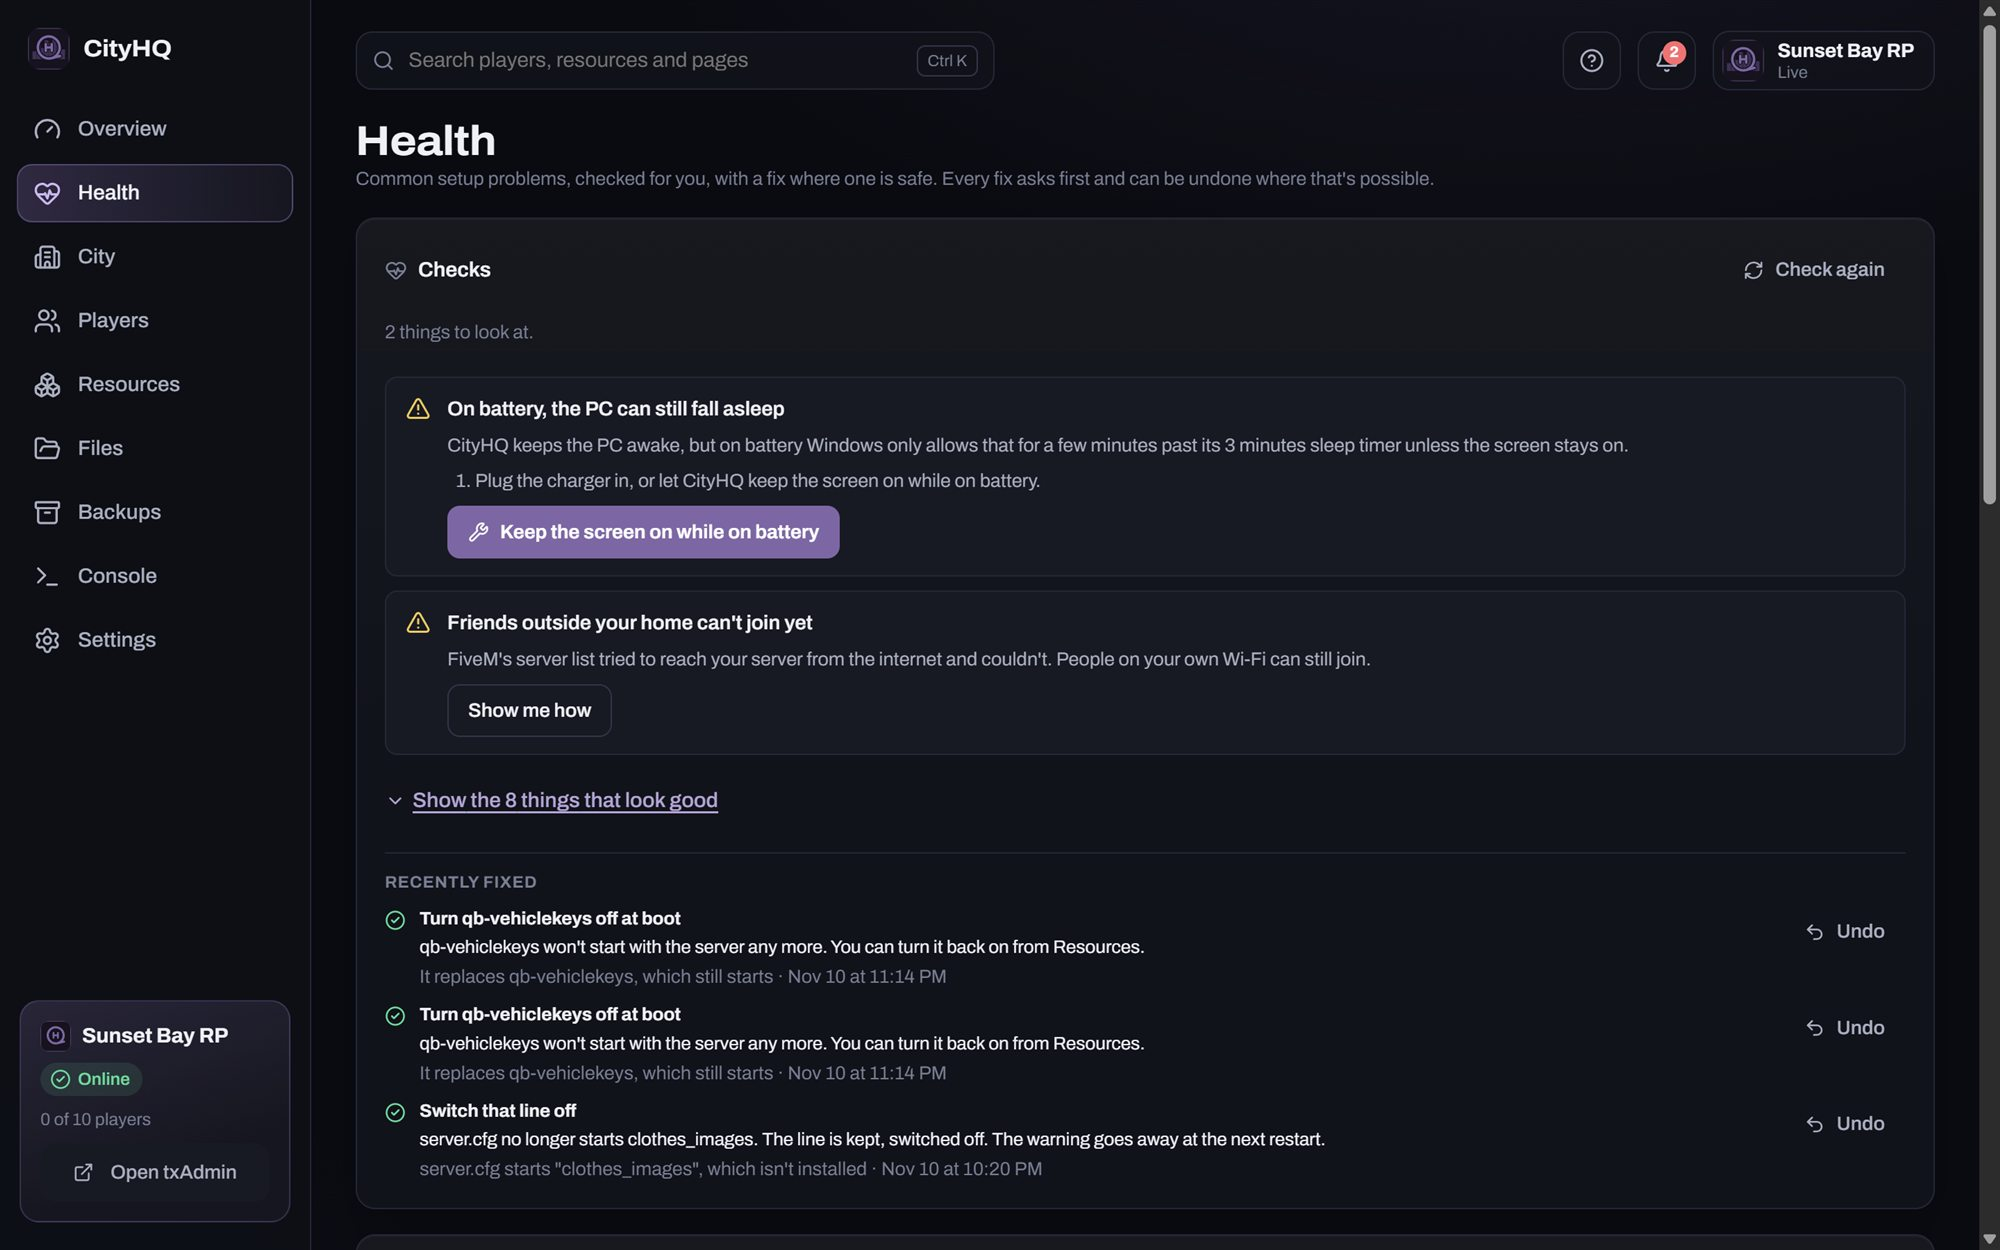
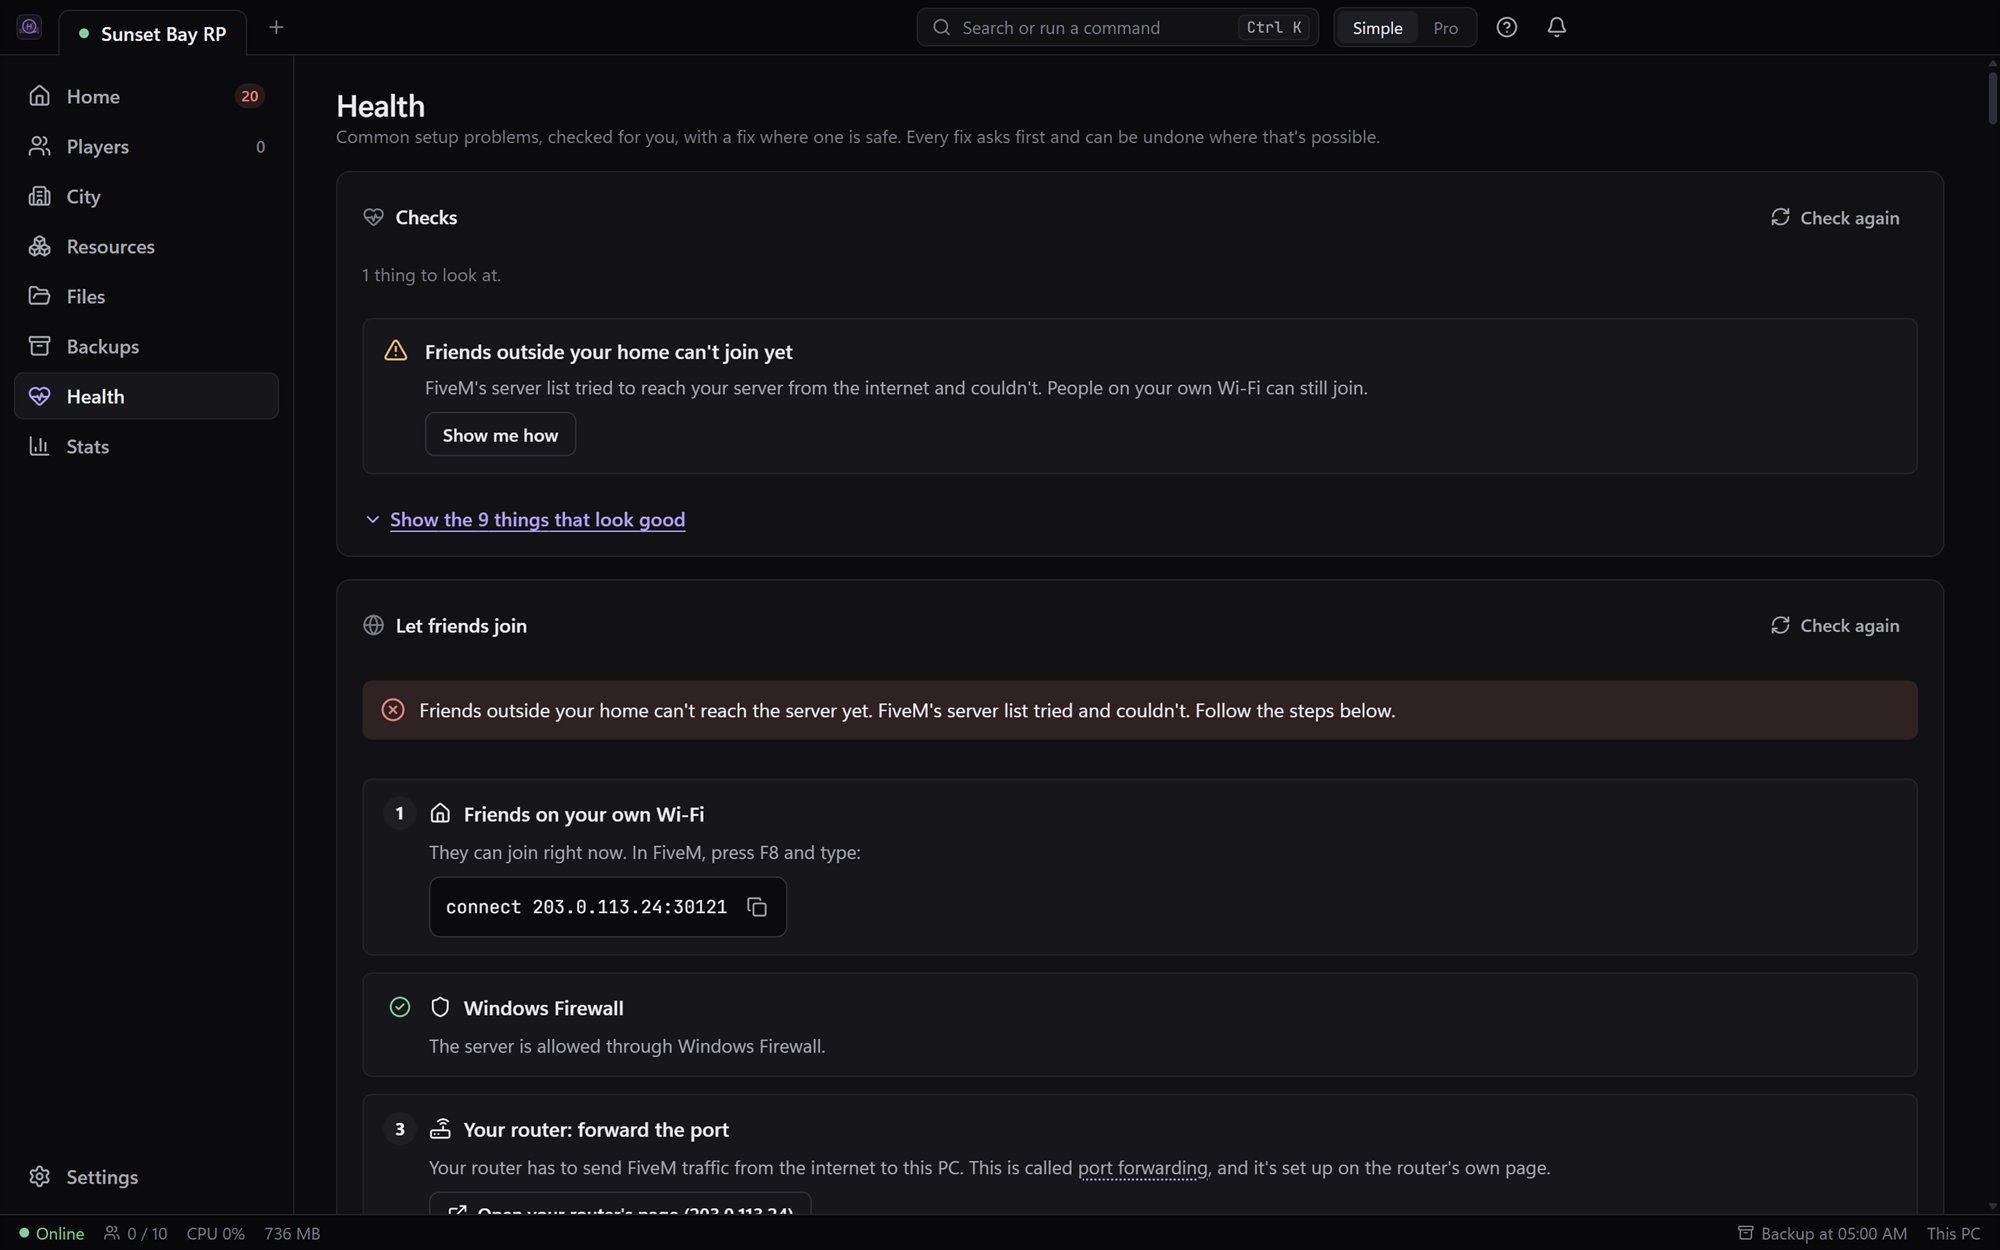
Website in the new look; Home's Things to fix lists them all (1.8.1)
- Website: new screenshots of 1.8 (Home, a form, one problem explained,
  Health, the install check, a phone), taken in a look-only test copy
  with the server's name, greeting name, IP addresses and license ids
  swapped for made-up ones. A new step, "Does what you ask", and the
  opening and descriptions mention typing what you want. Pins are
  placed beside what they point at.
- Home: "See all" under Things to fix opens the full list (with fixes
  and recent fixes) in place. It used to point at the Health page,
  which has its own checks, and miscounted on phones. Their count in
  the menu moves from Health to Home.

175 tests pass; type check and build pass.

diff --git a/site/index.html b/site/index.html
@@ -4,11 +4,11 @@
 <meta charset="utf-8">
 <meta name="viewport" content="width=device-width, initial-scale=1">
 <title>CityHQ: a Windows app for running a QBCore or Qbox server</title>
-<meta name="description" content="CityHQ is a free Windows app that runs a QBCore or Qbox FiveM server: it starts txAdmin, explains errors in plain words, fixes what it safely can, backs everything up, and can undo every change it makes.">
+<meta name="description" content="CityHQ is a free Windows app that runs a QBCore or Qbox FiveM server: type what you want in plain words, see what broke and how to fix it, and back everything up. Every change it makes can be undone.">
 <meta property="og:title" content="CityHQ: a Windows app for running a QBCore or Qbox server">
-<meta property="og:description" content="Free. Explains what broke and how to fix it, checks the setup, backs up every night, and undoes every change it makes.">
+<meta property="og:description" content="Free. Type what you want in plain words, see what broke and how to fix it, back up every night, and undo every change it makes.">
 <meta property="og:type" content="website">
-<meta property="og:image" content="img/overview.jpg">
+<meta property="og:image" content="img/home.jpg">
 <meta name="theme-color" content="#f4f0e6">
 <link rel="icon" href="img/logo.svg" type="image/svg+xml">
 <style>
@@ -153,7 +153,7 @@ footer p { margin: 0; max-width: 38em; }
 <main id="main">
   <div class="opening col">
     <h1>CityHQ runs your QBCore or Qbox server, and tells you what's wrong with it in plain words.</h1>
-    <p>It's a free Windows app. It starts txAdmin, watches the console, fixes what it safely can and backs everything up. <mark>Every change it makes can be undone.</mark></p>
+    <p>It's a free Windows app. Type what you want in plain words, like "kick a player" or "make it rain", or click a suggestion. It watches the console, fixes what it safely can and backs everything up. <mark>Every change it makes can be undone.</mark></p>
     <div class="get">
       <a class="button" href="https://github.com/404hxlo/CityHQ/releases/latest/download/CityHQ-windows.zip">
         <svg viewBox="0 0 24 24" fill="none" stroke="currentColor" stroke-width="2.2" stroke-linecap="round" stroke-linejoin="round" aria-hidden="true"><path d="M12 3v12"/><path d="m7 10 5 5 5-5"/><path d="M5 21h14"/></svg>
@@ -165,19 +165,19 @@ footer p { margin: 0; max-width: 38em; }
 
   <div class="figure wide">
     <div class="photo">
-      <img src="img/overview.jpg" width="2000" height="1250" alt="CityHQ's Overview page for a made-up server called Sunset Bay RP: online, with Restart, Stop and Announce buttons, cards for players and scripts, a player activity chart and a calendar.">
-      <span class="pin" style="left: 18.6%; top: 29%"><span>1</span></span>
-      <span class="pin" style="left: 66%; top: 48.8%"><span>2</span></span>
-      <span class="pin" style="left: 43%; top: 70%"><span>3</span></span>
-      <span class="pin" style="left: 78.5%; top: 15.5%"><span>4</span></span>
+      <img src="img/home.jpg" width="2000" height="1250" alt="CityHQ's Home for a made-up server called Sunset Bay RP: a welcome with setup checks, the server online with its join command, six things to do as cards, the live log, a box to type what you want, and a panel with players, load and things to fix.">
+      <span class="pin" style="left: 58%; top: 88.6%"><span>1</span></span>
+      <span class="pin" style="left: 29.6%; top: 55.8%"><span>2</span></span>
+      <span class="pin" style="left: 86.8%; top: 38.2%"><span>3</span></span>
+      <span class="pin" style="left: 70.3%; top: 8.4%"><span>4</span></span>
     </div>
     <ol class="notes">
-      <li><b>1</b><span>Restart warns everyone in game first, and saves them.</span></li>
-      <li><b>2</b><span>Things CityHQ noticed. Each one says what it is and what to do.</span></li>
-      <li><b>3</b><span>Who was on, over the last day or week.</span></li>
-      <li><b>4</b><span>What your friends type in FiveM to join.</span></li>
+      <li><b>1</b><span>Type what you want, in your own words.</span></li>
+      <li><b>2</b><span>New to this? Start with a click.</span></li>
+      <li><b>3</b><span>Anything wrong, in plain words, with how to fix it.</span></li>
+      <li><b>4</b><span>Simple or Pro: as much detail as you like.</span></li>
     </ol>
-    <p class="caption"><strong>Fig. 1</strong> The Overview. The city and names are made up.</p>
+    <p class="caption"><strong>Fig. 1</strong> Home, the way it looks the first time. The city and names are made up.</p>
   </div>
 
   <hr class="rule">
@@ -192,31 +192,59 @@ footer p { margin: 0; max-width: 38em; }
           <p>Point it at the server you already have, and it reads txAdmin's settings, the ports and the database, including XAMPP's MySQL. No server yet? It downloads FiveM's server and a database into one folder and walks you through txAdmin.</p>
         </li>
         <li>
-          <h3>Tells you what broke</h3>
-          <p>Errors in the console become a short list, most serious first: which script, what happened, and the steps to fix it. A button opens that script's files, and there's a link to its own documentation.</p>
+          <h3>Does what you ask</h3>
+          <p>Type it the way you'd say it: "kick a player", "make it rain", "give Lena a bandage". Suggestions show as you type, and anything that needs details opens a short form. Kicks, bans, stops and restarts always ask first. Simple mode keeps it plain; Pro mode shows the commands, the raw log and the console.</p>
         </li>
       </ol>
     </div>
   </section>
 
   <div class="figure wide">
-    <div class="photo right narrow">
-      <img src="img/problems.jpg" width="1515" height="1770" alt="A list of problems: one script hit an error, another needs a script that isn't installed. Each has numbered steps to fix it and a button to open the script." loading="lazy">
-      <span class="pin" style="left: 52%; top: 9.8%"><span>1</span></span>
-      <span class="pin" style="left: 20.5%; top: 17.2%"><span>2</span></span>
-      <span class="pin" style="left: 33.5%; top: 25.6%"><span>3</span></span>
+    <div class="photo right">
+      <img src="img/form.jpg" width="2000" height="1250" alt="Home with a short form open: Tell everyone something, a message about a car meet, a Big banner switch and a Send button, with a note saying the same thing can be typed next time." loading="lazy">
+      <span class="pin" style="left: 40.5%; top: 54.9%"><span>1</span></span>
+      <span class="pin" style="left: 31.8%; top: 75%"><span>2</span></span>
+      <span class="pin" style="left: 50.3%; top: 75%"><span>3</span></span>
     </div>
     <ol class="notes">
-      <li><b>1</b><span>The script, by name, and what went wrong.</span></li>
-      <li><b>2</b><span>What to do about it, step by step.</span></li>
-      <li><b>3</b><span>Opens the script's files in CityHQ.</span></li>
+      <li><b>1</b><span>A short form instead of a command.</span></li>
+      <li><b>2</b><span>Nothing happens until you press it.</span></li>
+      <li><b>3</b><span>Next time, just type it. It teaches you as you go.</span></li>
     </ol>
-    <p class="caption"><strong>Fig. 2</strong> The problems list on the Overview.</p>
+    <p class="caption"><strong>Fig. 2</strong> An announcement, started from a card on Home.</p>
   </div>
 
   <section class="section">
     <div class="col">
       <ol class="does" style="counter-reset: does 2">
+        <li>
+          <h3>Tells you what broke</h3>
+          <p>Errors in the console become a short list on Home, most serious first: which script, what happened, and the steps to fix it. A button opens that script's files, and there's a link to its own documentation.</p>
+        </li>
+      </ol>
+    </div>
+  </section>
+
+  <div class="figure wide">
+    <div class="photo">
+      <img src="img/problem.jpg" width="1516" height="648" alt="One problem explained: a script hit an error, so that feature may not work, with two numbered steps to fix it, a button to open the script, and links to its documentation." loading="lazy">
+      <span class="pin" style="left: 35.6%; top: 25.6%"><span>1</span></span>
+      <span class="pin" style="left: 61.3%; top: 53.5%"><span>2</span></span>
+      <span class="pin" style="left: 29.4%; top: 68.2%"><span>3</span></span>
+      <span class="pin" style="left: 56.1%; top: 79.5%"><span>4</span></span>
+    </div>
+    <ol class="notes">
+      <li><b>1</b><span>The script, by name, and what went wrong.</span></li>
+      <li><b>2</b><span>What to do about it, step by step.</span></li>
+      <li><b>3</b><span>Opens the script's files in CityHQ.</span></li>
+      <li><b>4</b><span>Its own documentation, found for you.</span></li>
+    </ol>
+    <p class="caption"><strong>Fig. 3</strong> One problem, opened from Home.</p>
+  </div>
+
+  <section class="section">
+    <div class="col">
+      <ol class="does" style="counter-reset: does 3">
         <li>
           <h3>Checks the setup</h3>
           <p>The usual reasons a new server keeps falling over: the PC going to sleep, missing database tables, scripts starting in the wrong order, and friends outside your home who can't join. It also explains every restart in the last day.</p>
@@ -231,20 +259,20 @@ footer p { margin: 0; max-width: 38em; }
 
   <div class="figure wide">
     <div class="photo">
-      <img src="img/health.jpg" width="2000" height="1250" alt="The Health page: two things to look at, one with a fix button, and a list of recent fixes, each with an Undo button." loading="lazy">
-      <span class="pin" style="left: 44.5%; top: 42.5%"><span>1</span></span>
-      <span class="pin" style="left: 92.5%; top: 67.6%"><span>2</span></span>
+      <img src="img/health.jpg" width="2000" height="1250" alt="The Health page: one thing to look at, friends outside the home can't join yet, with a Show me how button; nine checks that look good; and the steps for letting friends join, router included." loading="lazy">
+      <span class="pin" style="left: 32%; top: 34.8%"><span>1</span></span>
+      <span class="pin" style="left: 72%; top: 56.8%"><span>2</span></span>
     </div>
     <ol class="notes">
-      <li><b>1</b><span>A fix button. It asks before it changes anything.</span></li>
-      <li><b>2</b><span>Changed your mind? Undo.</span></li>
+      <li><b>1</b><span>Something to look at, and the way to sort it out.</span></li>
+      <li><b>2</b><span>Friends can't join from outside? The steps for your own router.</span></li>
     </ol>
-    <p class="caption"><strong>Fig. 3</strong> The Health page.</p>
+    <p class="caption"><strong>Fig. 4</strong> The Health page.</p>
   </div>
 
   <section class="section">
     <div class="col">
-      <ol class="does" style="counter-reset: does 4">
+      <ol class="does" style="counter-reset: does 5">
         <li>
           <h3>Looks after your scripts</h3>
           <p>Add one from a zip, a folder or a GitHub link. Before it goes live, an install check says whether it works with your framework, what it needs and which database tables it creates. Settings files open as simple forms, and every save keeps a copy of the file as it was.</p>
@@ -256,19 +284,19 @@ footer p { margin: 0; max-width: 38em; }
   <div class="figure wide">
     <div class="photo right">
       <img src="img/install-check.jpg" width="2000" height="1250" alt="A script opened in CityHQ: the install check says it works with QBCore, and its config.lua is shown as settings with switches and text boxes." loading="lazy">
-      <span class="pin" style="left: 69%; top: 24%"><span>1</span></span>
-      <span class="pin" style="left: 70%; top: 56%"><span>2</span></span>
+      <span class="pin" style="left: 69.8%; top: 23.8%"><span>1</span></span>
+      <span class="pin" style="left: 65%; top: 56.2%"><span>2</span></span>
     </div>
     <ol class="notes">
       <li><b>1</b><span>The install check: does it fit your server, and what does it need?</span></li>
       <li><b>2</b><span><code>config.lua</code> as plain settings, no code.</span></li>
     </ol>
-    <p class="caption"><strong>Fig. 4</strong> One script, opened from the Resources page.</p>
+    <p class="caption"><strong>Fig. 5</strong> One script, opened from the Resources page.</p>
   </div>
 
   <section class="section">
     <div class="col">
-      <ol class="does" style="counter-reset: does 5">
+      <ol class="does" style="counter-reset: does 6">
         <li>
           <h3>Runs the city</h3>
           <p>Weather and time for everyone, a big announcement across every screen, revive everyone, clear empty cars, and a whitelist. For players: heal, teleport, items, money, jobs, kicks and bans, with no commands to type.</p>
@@ -280,7 +308,7 @@ footer p { margin: 0; max-width: 38em; }
         <li>
           <h3>Works from your phone</h3>
           <div class="phone-row">
-            <div class="photo"><img src="img/phone.jpg" width="780" height="1688" alt="CityHQ's Overview on a phone." loading="lazy"></div>
+            <div class="photo"><img src="img/phone.jpg" width="780" height="1688" alt="CityHQ's Home on a phone: the server online, players, load, one thing to fix, and the box to type what you want." loading="lazy"></div>
             <p>Turn on phone access and scan the QR code. The same dashboard works on any phone on your home Wi-Fi. It isn't reachable from the internet.</p>
           </div>
         </li>

diff --git a/web/src/pages/Home.tsx b/web/src/pages/Home.tsx
@@ -19,7 +19,7 @@ import { CommandBox, useActionCtx } from '../CommandBox';
 import { findNamed, normalize, playerName } from '../commands';
 import { readStored, useStored, writeStored } from '../mode';
 import { takeHomeAction } from '../nav';
-import { ProblemCard } from '../Problems';
+import { ProblemCard, ProblemList, RecentFixes } from '../Problems';
 import { startTour } from '../Tour';
 import {
   Button, formatBytes, formatUptime, Modal, Notice, Spinner, Toggle, useConfirm, usePoll, useToast,
@@ -638,6 +638,7 @@ function HomeSide({ data, dash, mode, onStart, refresh }: {
   data: OverviewData; dash: Dashboard | null; mode: Mode; onStart: (id: string) => void; refresh: () => void;
 }) {
   const [problem, setProblem] = useState<Problem | null>(null);
+  const [all, setAll] = useState(false);
   const hosted = data.hosted || null;
   const canPower = !hosted || hosted.capabilities.power;
   const online = data.state === 'online';
@@ -696,7 +697,7 @@ function HomeSide({ data, dash, mode, onStart, refresh }: {
             <button type="button" className="link-plain side-link" onClick={() => setProblem(p)}>{p.actions.some((a) => a.kind === 'fix') ? 'Fix it' : 'See how to fix it'}</button>
           </div>
         ))}
-        {data.problems.length > 3 && <a className="link-plain side-link side-more" href="#health">{data.problems.length - 3} more on the Health page</a>}
+        {data.problems.length > 1 && <button type="button" className="link-plain side-link side-more" onClick={() => setAll(true)}>See all {data.problems.length}</button>}
       </div>
 
       {dash && dash.upcoming.length > 0 && (
@@ -711,6 +712,13 @@ function HomeSide({ data, dash, mode, onStart, refresh }: {
       {problem && (
         <Modal title={problem.title} onClose={() => setProblem(null)} wide>
           <ProblemCard problem={problem} onChanged={() => { setProblem(null); refresh(); }} />
+        </Modal>
+      )}
+      {all && (
+        <Modal title={`Things to fix (${data.problems.length})`} onClose={() => setAll(false)} wide>
+          <p className="muted-note">From the server's latest start, most serious first. Each says what happened and how to fix it.</p>
+          <ProblemList problems={data.problems} onChanged={refresh} />
+          <RecentFixes onChanged={refresh} />
         </Modal>
       )}
     </aside>

diff --git a/web/src/App.tsx b/web/src/App.tsx
@@ -234,7 +234,8 @@ function Shell({ local, onSignOut }: { local: boolean; onSignOut: () => void }) 
               <a href={`#${n.id}`} title={n.label} className={page === n.id ? 'active' : ''} aria-current={page === n.id ? 'page' : undefined}>
                 {n.icon}<span>{n.label}</span>
                 {n.id === 'players' && online && data?.status ? <small className="nav-n">{data.status.players}</small> : null}
-                {n.id === 'health' && problems > 0 ? <small className="nav-c">{problems}</small> : null}
+                {/* Things to fix are listed on Home, so that's where their count shows. */}
+                {n.id === 'home' && problems > 0 ? <small className="nav-c" title={`${problems} thing${problems === 1 ? '' : 's'} to fix`}>{problems}</small> : null}
               </a>
             </li>
           ))}

diff --git a/CHANGELOG.md b/CHANGELOG.md
@@ -2,6 +2,11 @@
 
 Each version's section is shown in the app before it updates, and on its GitHub release page.
 
+## 1.8.1
+
+- On Home, **See all** under Things to fix opens the whole list, with its fixes, right there. Before, it sent you to the Health page, which has its own checks rather than this list, and on a phone it miscounted how many more there were.
+- The red count of things to fix now sits on Home in the menu, where they're listed, instead of on Health.
+
 ## 1.8.0
 
 - **A new look.** CityHQ is now a proper desktop app: its own title bar with your server's name and Windows' own window buttons, a menu down the side, a status bar along the bottom, and calm dark panels instead of glowing cards.
